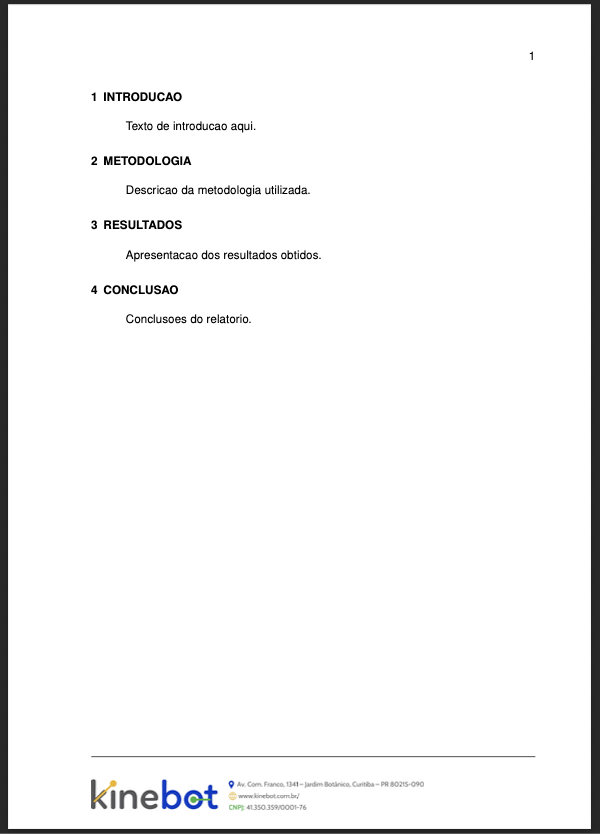
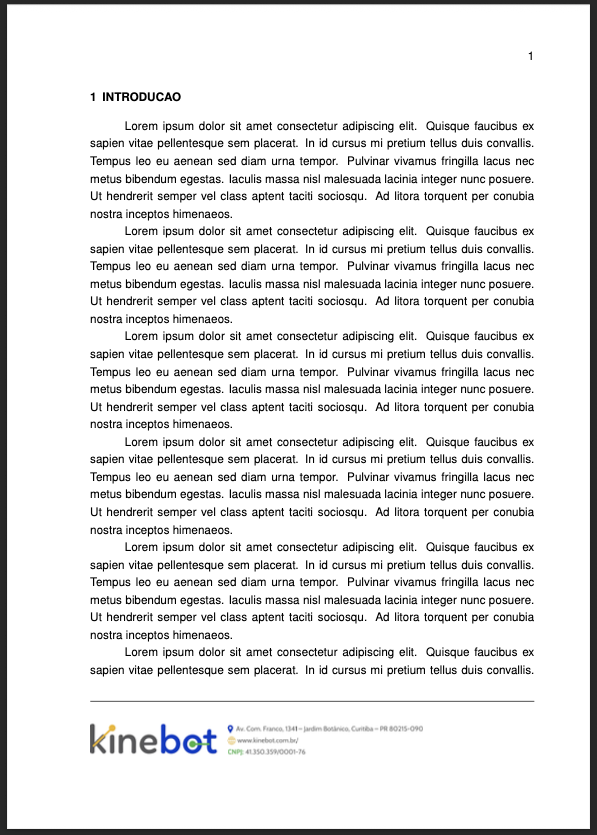
chore: small fix and add lorem ipsum

Changed region(s): [[0.1508, 0.0935, 0.9045, 0.8106], [0.0, 0.0, 1.0, 1.0], [0.1508, 0.8729, 0.5126, 0.9041]]

diff --git a/main.tex b/main.tex
@@ -29,8 +29,25 @@
 
 \section{Introducao}
 
-Texto de introducao aqui.
+Lorem ipsum dolor sit amet consectetur adipiscing elit. Quisque faucibus ex sapien vitae pellentesque sem placerat. In id cursus mi pretium tellus duis convallis. Tempus leo eu aenean sed diam urna tempor. Pulvinar vivamus fringilla lacus nec metus bibendum egestas. Iaculis massa nisl malesuada lacinia integer nunc posuere. Ut hendrerit semper vel class aptent taciti sociosqu. Ad litora torquent per conubia nostra inceptos himenaeos.
 
+Lorem ipsum dolor sit amet consectetur adipiscing elit. Quisque faucibus ex sapien vitae pellentesque sem placerat. In id cursus mi pretium tellus duis convallis. Tempus leo eu aenean sed diam urna tempor. Pulvinar vivamus fringilla lacus nec metus bibendum egestas. Iaculis massa nisl malesuada lacinia integer nunc posuere. Ut hendrerit semper vel class aptent taciti sociosqu. Ad litora torquent per conubia nostra inceptos himenaeos.
+
+Lorem ipsum dolor sit amet consectetur adipiscing elit. Quisque faucibus ex sapien vitae pellentesque sem placerat. In id cursus mi pretium tellus duis convallis. Tempus leo eu aenean sed diam urna tempor. Pulvinar vivamus fringilla lacus nec metus bibendum egestas. Iaculis massa nisl malesuada lacinia integer nunc posuere. Ut hendrerit semper vel class aptent taciti sociosqu. Ad litora torquent per conubia nostra inceptos himenaeos.
+
+Lorem ipsum dolor sit amet consectetur adipiscing elit. Quisque faucibus ex sapien vitae pellentesque sem placerat. In id cursus mi pretium tellus duis convallis. Tempus leo eu aenean sed diam urna tempor. Pulvinar vivamus fringilla lacus nec metus bibendum egestas. Iaculis massa nisl malesuada lacinia integer nunc posuere. Ut hendrerit semper vel class aptent taciti sociosqu. Ad litora torquent per conubia nostra inceptos himenaeos.
+
+Lorem ipsum dolor sit amet consectetur adipiscing elit. Quisque faucibus ex sapien vitae pellentesque sem placerat. In id cursus mi pretium tellus duis convallis. Tempus leo eu aenean sed diam urna tempor. Pulvinar vivamus fringilla lacus nec metus bibendum egestas. Iaculis massa nisl malesuada lacinia integer nunc posuere. Ut hendrerit semper vel class aptent taciti sociosqu. Ad litora torquent per conubia nostra inceptos himenaeos.
+
+Lorem ipsum dolor sit amet consectetur adipiscing elit. Quisque faucibus ex sapien vitae pellentesque sem placerat. In id cursus mi pretium tellus duis convallis. Tempus leo eu aenean sed diam urna tempor. Pulvinar vivamus fringilla lacus nec metus bibendum egestas. Iaculis massa nisl malesuada lacinia integer nunc posuere. Ut hendrerit semper vel class aptent taciti sociosqu. Ad litora torquent per conubia nostra inceptos himenaeos.
+
+Lorem ipsum dolor sit amet consectetur adipiscing elit. Quisque faucibus ex sapien vitae pellentesque sem placerat. In id cursus mi pretium tellus duis convallis. Tempus leo eu aenean sed diam urna tempor. Pulvinar vivamus fringilla lacus nec metus bibendum egestas. Iaculis massa nisl malesuada lacinia integer nunc posuere. Ut hendrerit semper vel class aptent taciti sociosqu. Ad litora torquent per conubia nostra inceptos himenaeos.
+
+Lorem ipsum dolor sit amet consectetur adipiscing elit. Quisque faucibus ex sapien vitae pellentesque sem placerat. In id cursus mi pretium tellus duis convallis. Tempus leo eu aenean sed diam urna tempor. Pulvinar vivamus fringilla lacus nec metus bibendum egestas. Iaculis massa nisl malesuada lacinia integer nunc posuere. Ut hendrerit semper vel class aptent taciti sociosqu. Ad litora torquent per conubia nostra inceptos himenaeos.
+
+Lorem ipsum dolor sit amet consectetur adipiscing elit. Quisque faucibus ex sapien vitae pellentesque sem placerat. In id cursus mi pretium tellus duis convallis. Tempus leo eu aenean sed diam urna tempor. Pulvinar vivamus fringilla lacus nec metus bibendum egestas. Iaculis massa nisl malesuada lacinia integer nunc posuere. Ut hendrerit semper vel class aptent taciti sociosqu. Ad litora torquent per conubia nostra inceptos himenaeos.
+
+Lorem ipsum dolor sit amet consectetur adipiscing elit. Quisque faucibus ex sapien vitae pellentesque sem placerat. In id cursus mi pretium tellus duis convallis. Tempus leo eu aenean sed diam urna tempor. Pulvinar vivamus fringilla lacus nec metus bibendum egestas. Iaculis massa nisl malesuada lacinia integer nunc posuere. Ut hendrerit semper vel class aptent taciti sociosqu. Ad litora torquent per conubia nostra inceptos himenaeos.
 \section{Metodologia}
 
 Descricao da metodologia utilizada.

diff --git a/README.md b/README.md
@@ -9,7 +9,7 @@ LaTeX template for Kinebot company reports, formatted according to **ABNT** (Bra
 | Paper | A4 | A4 |
 | Top margin | 3cm | 3cm |
 | Bottom margin | 3cm* | 2cm |
-| Left margin | 3cm | 3cm |
+| Left margin | 5cm | 3cm |
 | Right margin | 2cm | 2cm |
 | Font | Arial (Helvetica) 12pt | Arial or Times New Roman 12pt |
 | Line spacing | 1.5 | 1.5 |
@@ -21,7 +21,7 @@ LaTeX template for Kinebot company reports, formatted according to **ABNT** (Bra
 | Language | pt-BR | Portuguese |
 | Page numbers | Top right, Arabic | Top right, starting from first content page |
 
-> *Bottom margin is 3cm instead of the standard 2cm to accommodate the footer banner.
+> *Bottom margin is 5cm instead of the standard 2cm to accommodate the footer banner.
 
 ### Footer Banner
 
